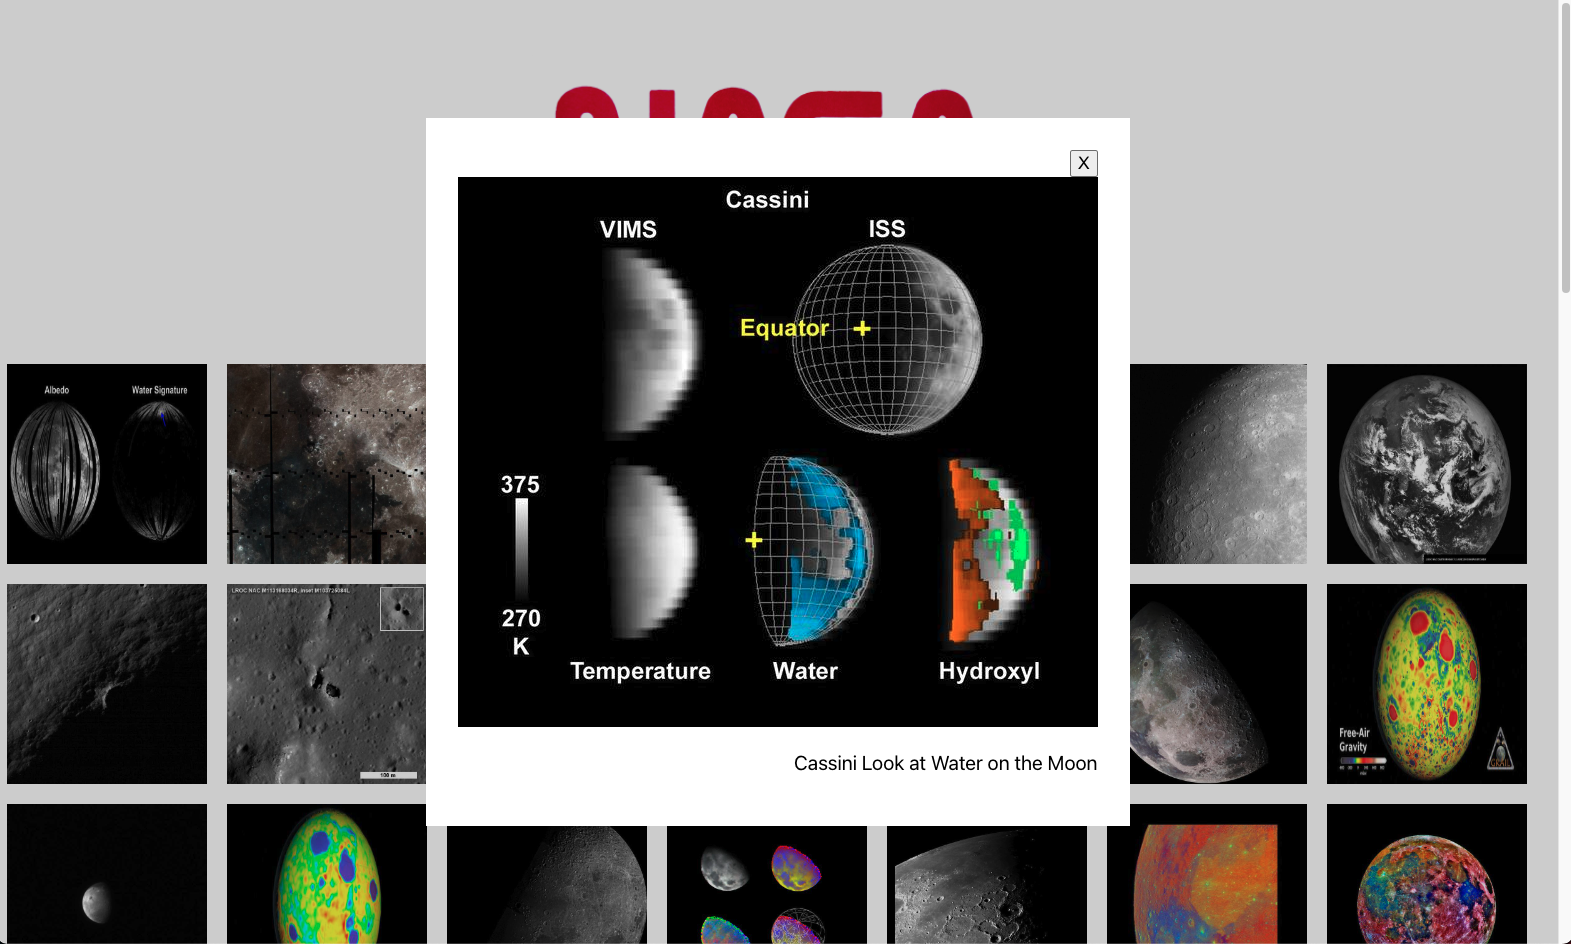
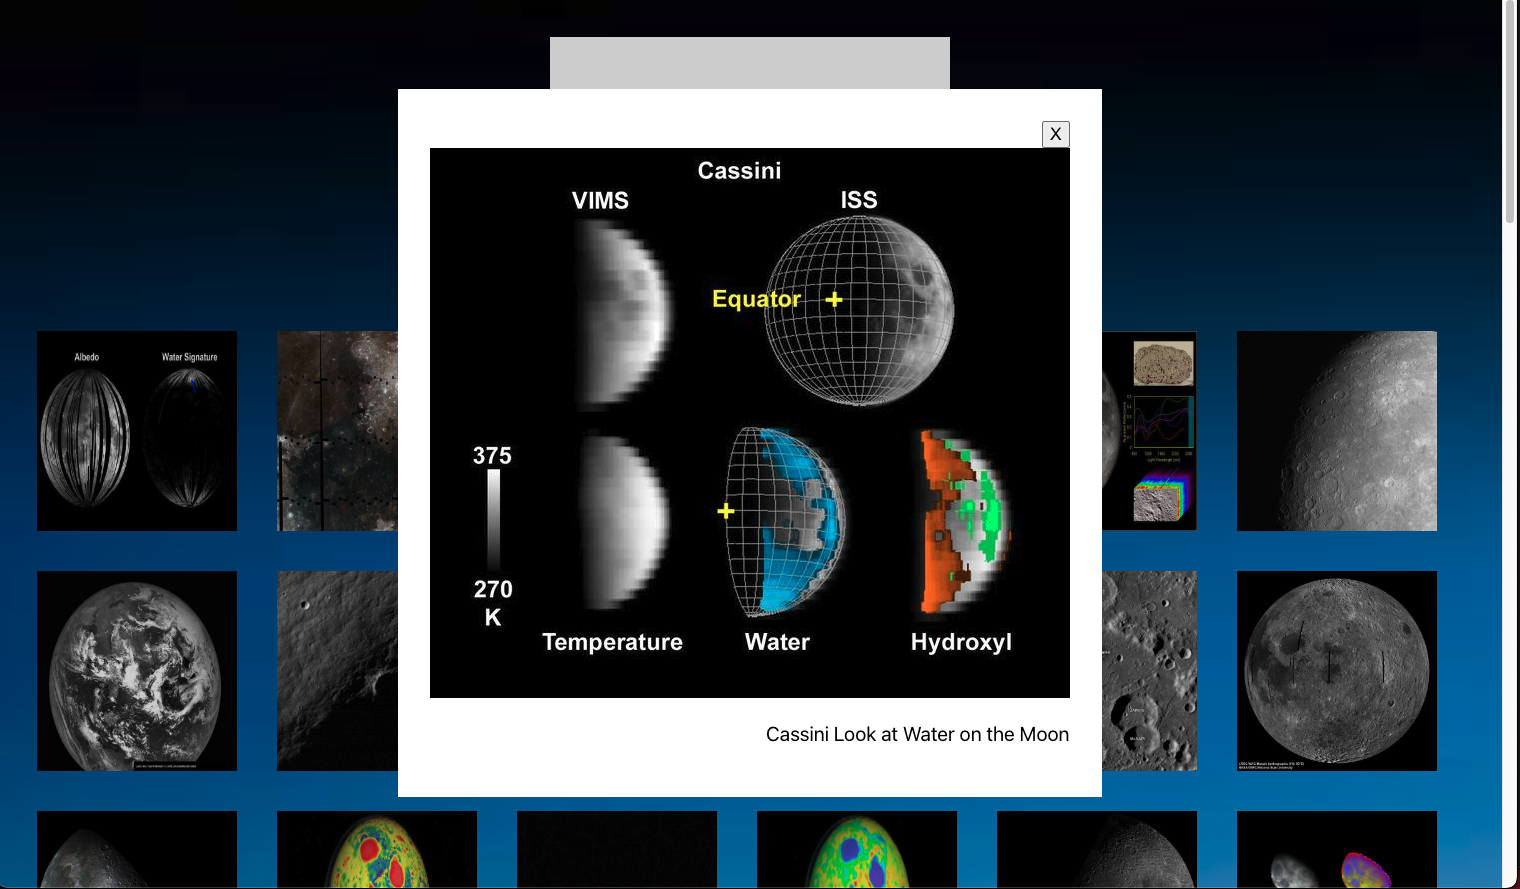
refactor completed

diff --git a/src/styles/app.css b/src/styles/app.css
@@ -1,10 +1,18 @@
 .app {
   display: flex;
   flex-direction: column;
+  justify-content: flex-start;
+  background-image: url("https://www.nasa.gov/sites/default/files/styles/full_width_feature/public/thumbnails/image/52688121607_bcce2a690e_o.jpg");
+  background-repeat: no-repeat;
+  background-size: cover;
+  min-height: 600px;
+  padding: 20px;
 }
 
 .nasa-logo {
   margin: auto;
-  width: 500px;
-  height: 300px;
+  width: 400px;
+  height: 200px;
+  padding: 20px;
+  background-color: rgba(0, 0, 0, 0);
 }

diff --git a/src/styles/search-results.css b/src/styles/search-results.css
@@ -6,7 +6,7 @@
 .results img {
   aspect-ratio: 1 / 1;
   width: 200px;
-  padding: 10px;
+  padding: 20px;
   transition: 1s;
 }
 

diff --git a/src/styles/search.css b/src/styles/search.css
@@ -1,6 +1,5 @@
 .search-form {
   display: flex;
-  flex-direction: row;
   justify-content: center;
 }
 

diff --git a/README.md b/README.md
@@ -12,15 +12,15 @@
 
 - desktop screen to show all images
 
-<img src="screen\screen-desktop.png" height="200">
+- <img src="screen\screen-desktop.png" height="200">
 
 - desktop screen clicking one image
 
-<img src="screen\screen-desktop-zoom.png" height="200">
+- <img src="screen\screen-desktop-zoom.png" height="200">
 
 - mobile screen to show images
 
-<img src="screen\screen-mobile.png" height="200">
+- <img src="screen\screen-mobile.png" height="200">
 
 ## App built with (React)
 
@@ -30,11 +30,13 @@
 
 ## Testing utilities used (Jest, React Testing Library)
 
-- render, screen from "@testing-library/react": methods to get screen by component.
-- renderer from "react-test-renderer": method to generate snapshot for comparison next time.
-- fireEvent from "@testing-library/react": simulate event trigger on component.
-- waitFor from "@testing-library/react": await for a group of actions
-- axios from "axios": apply spyOn test for axios api
+| Utilities      | From                     | Usage                                         |
+| -------------- | ------------------------ | --------------------------------------------- |
+| render, screen | "@testing-library/react" | to get screen by component                    |
+| renderer       | "react-test-renderer"    | to generate snapshot for comparison next time |
+| fireEvent      | "@testing-library/react" | to simulate event trigger on component        |
+| waitFor        | "@testing-library/react" | await for a group of actions                  |
+| axios          | "axios"                  | to apply spyOn test for axios api             |
 
 ## Package used
 
@@ -53,6 +55,7 @@
 
 - show description when mouse put on that image.
 - clicking image can popup larger picture and title.
+- add mobile screen handle.
 
 ## Author
 
